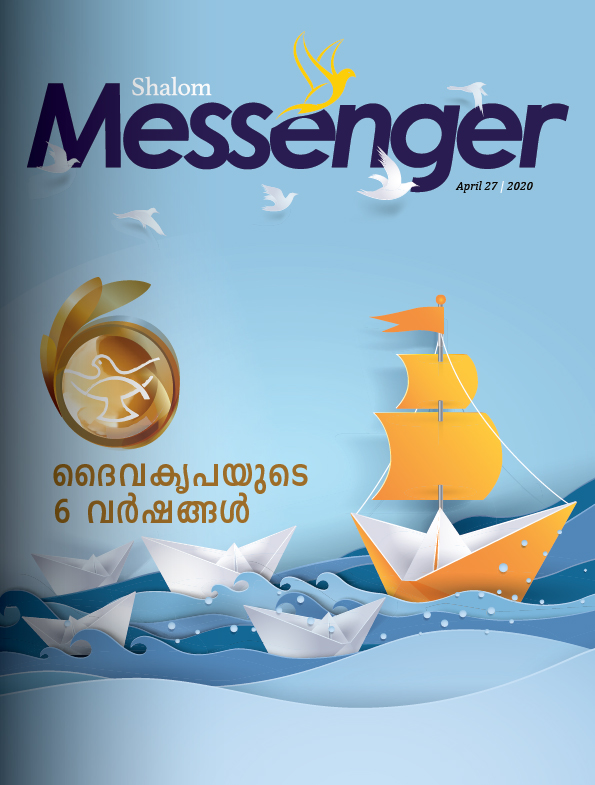
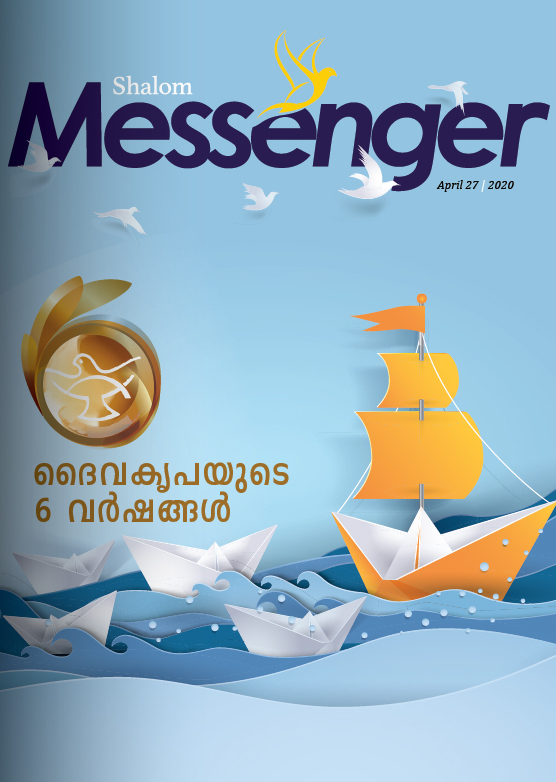
Image sizes fixed

diff --git a/index.html b/index.html
@@ -141,7 +141,7 @@
                                 <div class="col-sm-6 col-md-4 col-lg-3 mt-4">
                                     <div  class="card">
                                         <a title="Read Now" target="_blank" href="https://online.pubhtml5.com/vrhy/dddh/">
-                                            <img  class="card-img-top" src="assets/images/covers/Anniversary.jpg">
+                                            <img style="width: auto; height: auto"  class="card-img-top" src="assets/images/covers/Anniversary.jpg">
                                         </a>
                                     </div>
                                     <div class="card-block">
@@ -157,7 +157,7 @@
                                 <div class="col-sm-6 col-md-4 col-lg-3 mt-4">
                                     <div  class="card">
                                         <a title="Read Now" target="_blank" href="https://online.pubhtml5.com/vrhy/mbpy/">
-                                            <img height="320px" class="card-img-top" src="assets/images/covers/2016cover.JPG">
+                                            <img style="width: auto; height: auto" class="card-img-top" src="assets/images/covers/2016cover.JPG">
                                         </a>
                                     </div>
                                     <div class="card-block">
